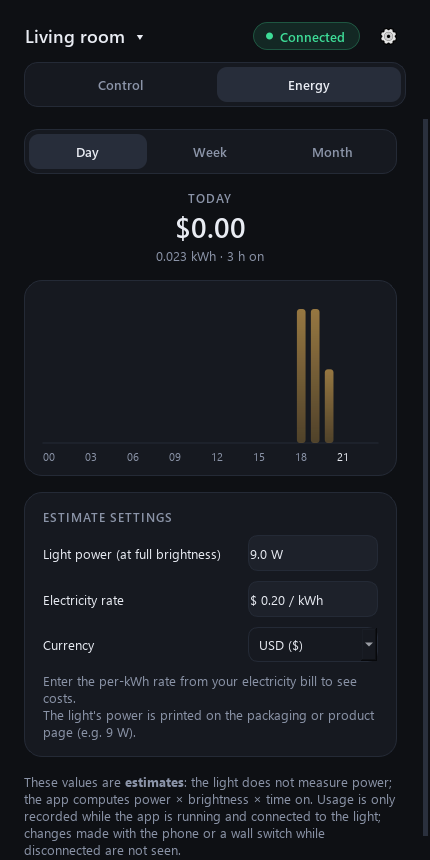
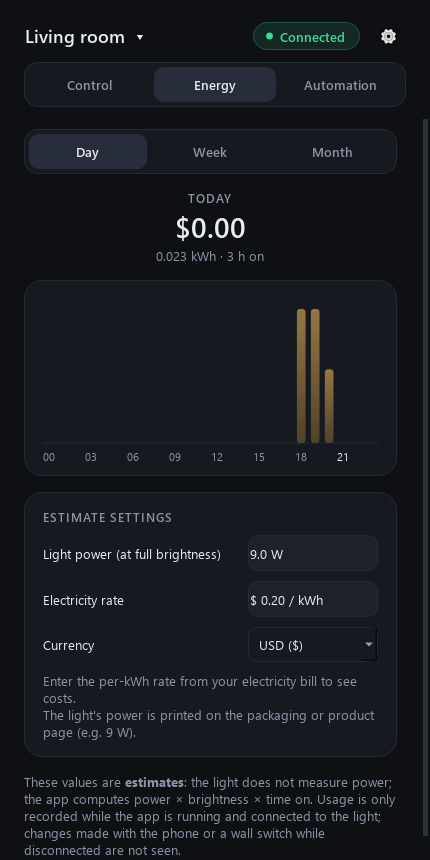
Faz 5 (v0.4.0): Belgeler ve son kontrol
- README (EN/TR): Otomasyonlar bölümü ve sınırları (yalnızca uygulama çalışırken/bilgisayar uyanıkken/ışık menzildeyken, kaçırılan kural
  toleransı, Smart Life bulut zamanlayıcılarından ayrı), özellik listesi, Durum tablosunda "gerçek cihazda henüz doğrulanmadı" satırları, yol haritası.
- docs/make_screenshots.py: otomasyon sekmesi (örnek verilerle); ekran görüntüleri yeniden üretildi.
- CLAUDE.md: yeni modüller ve durum notu. i18n testi yeni kök modülleri de tarar.
- Gizli bilgi taraması (tüm dallar, 16 commit): gerçek anahtar/kimlik/uuid/adres geçmişte yok.

Changed region(s): [[0.6349, 0.0605, 0.9372, 0.1209], [0.3628, 0.0605, 0.5442, 0.1209], [0.1512, 0.0907, 0.3326, 0.1209]]

diff --git a/docs/make_screenshots.py b/docs/make_screenshots.py
@@ -5,7 +5,7 @@ Gerçek ışık, yerel anahtar, cihaz kimliği ya da hesap bilgisi kullanılmaz;
     python docs/make_screenshots.py
 
 Çıktı: docs/screenshots/en/*.png ve docs/screenshots/tr/*.png
-(home, color, energy, wizard-keys, wizard-lights)
+(home, color, energy, automation, wizard-keys, wizard-lights)
 """
 
 from __future__ import annotations
@@ -26,11 +26,14 @@ sys.path.insert(0, str(ROOT))
 from PySide6.QtCore import QObject, QSettings, Signal  # noqa: E402
 from PySide6.QtWidgets import QApplication  # noqa: E402
 
+import automation as au  # noqa: E402
 import cloud_import as ci  # noqa: E402
 import energy as en  # noqa: E402
 import i18n  # noqa: E402
 import light_core as lc  # noqa: E402
+from ui.automation_host import AutomationHost  # noqa: E402
 from ui.main_window import MainWindow  # noqa: E402
+from ui.presets import PresetStore  # noqa: E402
 from ui.setup_dialog import PAGE_CREDENTIALS, PAGE_LIGHTS, SetupDialog  # noqa: E402
 from ui.theme import apply_theme  # noqa: E402
 
@@ -52,6 +55,53 @@ class SampleBridge(QObject):
         if name.startswith("_"):
             raise AttributeError(name)
         return lambda *args, **kwargs: None
+
+
+class SampleBackend:
+    """Otomasyon ana makinesinin beklediği arka uç; ekran görüntüsü için hiçbir ışığa dokunmaz."""
+
+    def __init__(self, lights: dict[str, str]) -> None:
+        self.lights = lights
+
+    def light_ids(self) -> list[str]:
+        return list(self.lights)
+
+    def light_name(self, light_id: str) -> str | None:
+        return self.lights.get(light_id)
+
+    async def state(self, light_id: str):
+        return None
+
+    async def apply(self, light_id: str, command) -> None:
+        return None
+
+    async def release(self, light_id: str) -> None:
+        return None
+
+
+def sample_rules(first_light: str) -> list[au.Rule]:
+    """Örnek otomasyonlar (uydurma ışık kimliği ve genel bir koordinat)."""
+    t = i18n.tr
+    return [
+        au.Rule(
+            name=t("automation.example_sunset_name"),
+            trigger=au.Trigger(kind="sun", event="sunset", offset=-30, lat=41.0, lon=29.0),
+            action=au.Action(kind="white", bright=60, temp=30, fade_min=20),
+            all_lights=True,
+        ),
+        au.Rule(
+            name=t("automation.example_morning_name"),
+            trigger=au.Trigger(kind="time", time="07:00", days=[0, 1, 2, 3, 4]),
+            action=au.Action(kind="white", bright=70, temp=40, fade_min=15),
+            lights=[first_light],
+        ),
+        au.Rule(
+            name=t("preset.night"),
+            trigger=au.Trigger(kind="time", time="23:30"),
+            action=au.Action(kind="preset", preset="night"),
+            all_lights=True,
+        ),
+    ]
 
 
 def sample_usage(log: en.EnergyLog, device: str) -> None:
@@ -91,7 +141,16 @@ def shoot(app: QApplication, lang: str, out: Path, tmp: Path) -> None:
     log = en.EnergyLog(":memory:", clock=lambda: NOW.timestamp())
     sample_usage(log, cfg.device_id)
     bridge = SampleBridge()
-    win = MainWindow(cfg, bridge, settings=settings, use_tray=False, energy_log=log)
+    second = lc.Config(device_id="sample-2", local_key="sample", uuid="sample-2", name=SAMPLE_NAMES[lang][1], category="dj")
+    host = AutomationHost(
+        au.RuleStore(), au.EngineState(), SampleBackend({cfg.device_id: cfg.name, second.device_id: second.name}), submit=lambda c: c.close()
+    )
+    for rule in sample_rules(cfg.device_id):
+        host.add_rule(rule)
+    win = MainWindow(cfg, bridge, settings=settings, use_tray=False, energy_log=log, preset_store=PresetStore(), automation_host=host)
+    win.set_devices([cfg, second], cfg.device_id)
+    win.automation_page._now = lambda: NOW.timestamp()  # "Sonraki: ..." satırı sabit kalsın
+    win.automation_page.refresh()
     win.energy._clock = lambda: NOW.timestamp()
     win.energy.set_device(cfg.device_id, cfg.watts)
     win.resize(430, 860)
@@ -111,6 +170,10 @@ def shoot(app: QApplication, lang: str, out: Path, tmp: Path) -> None:
     win.tab_energy.click()
     app.processEvents()
     win.grab().save(str(out / "energy.png"))
+
+    win.tab_automation.click()
+    app.processEvents()
+    win.grab().save(str(out / "automation.png"))
     win.close()
     log.close()
 

diff --git a/tests/test_i18n.py b/tests/test_i18n.py
@@ -55,7 +55,7 @@ def test_english_texts_have_no_turkish_letters():
 
 
 def _source_files() -> list[Path]:
-    files = [ROOT / name for name in ("light_core.py", "cloud_import.py", "devices.py", "energy.py", "light_app.py", "automation.py", "storage.py", "sun.py")]
+    files = [ROOT / name for name in ("light_core.py", "cloud_import.py", "devices.py", "energy.py", "light_app.py", "automation.py", "storage.py", "sun.py", "quick_cli.py", "shortcuts.py")]
     files += sorted((ROOT / "ui").glob("*.py"))
     return files
 

diff --git a/README.tr.md b/README.tr.md
@@ -32,9 +32,11 @@ Tuya / Smart Life ışıklarınızı Windows bilgisayarınızdan Bluetooth ile k
 
 ## Özellikler
 
-- Açma/kapama, parlaklık, beyaz ışık sıcaklığı, renk ve altı hazır ayar (Okuma, Odak, Gece, Film, Romantik, Okyanus).
+- Açma/kapama, parlaklık, beyaz ışık sıcaklığı, renk ve altı yerleşik hazır ayar (Okuma, Odak, Gece, Film, Romantik, Okyanus); ayrıca **kendi hazır ayarlarınız**: şu anki durumu kaydedin, adlandırın, düzenleyin, silin (yerleşikler gizlenebilir).
 - Birden çok ışık; başlıktaki menüden değiştirme, yeniden adlandırma, kaldırma.
-- Sistem tepsisi: pencereyi kapatınca uygulama çalışmaya devam eder; tepsiden ışığı açıp kapatabilirsiniz. Bağlantı koparsa kendiliğinden yeniden bağlanır.
+- Sistem tepsisi: pencereyi kapatınca uygulama çalışmaya devam eder; tepsiden ışığı açıp kapatabilir, hazır ayar uygulayabilir, otomasyonları duraklatabilirsiniz. Bağlantı koparsa kendiliğinden yeniden bağlanır.
+- **Otomasyonlar** (deneysel, bkz. [Otomasyonlar](#otomasyonlar)): belirli saatte, gün doğumu/batımında ya da uygulama açılırken; yumuşak geçiş; bir ya da tüm ışıklar.
+- **Hızlı erişim** (deneysel, bkz. [Hızlı erişim](#hızlı-erişim-tepsi-komut-satırı-ve-kısayollar)): komut satırı (`--scene`, `--power`) ve Windows'ta genel kısayol tuşları.
 - Pano algılama, canlı doğrulama ve "Tekrar dene" düğmeleriyle yönlendirmeli kurulum sihirbazı.
 - Çevredeki ışıkları sinyal gücüyle tarama ve ışıkları ayırt etmek için **Yanıp söndür** düğmesi (deneysel, bkz. [Durum](#durum)).
 - "Işık bulunamadı" için sorun giderici kart ve sorun bildirirken yapıştırabileceğiniz tanılama raporu.
@@ -63,6 +65,9 @@ Gerçek cihazla nelerin denendiğinin, nelerin denenmediğinin dürüst özeti:
 | Kurulum sihirbazı v2 (pano algılama, yakın tarama) | Yalnızca otomatik testler — **gerçek cihazda henüz doğrulanmadı** |
 | **Yanıp söndür** düğmesi (ışığı tanıma) | Deneysel — **gerçek cihazda henüz doğrulanmadı** |
 | **Sorun giderici** kart ve tanılama raporu | Deneysel — **gerçek cihazda henüz doğrulanmadı** (raporun gizlilik filtresi testlerle sınandı) |
+| Kendi hazır ayarlarınız (kaydet, düzenle, sil, gizle) | Yalnızca otomatik testler — **gerçek cihazda henüz doğrulanmadı** |
+| **Otomasyonlar** (saat / gün doğumu-batımı / uygulama açılışı tetikleyicileri, yumuşak geçiş, birden çok ışık, kaçırılan kural toleransı) | Yalnızca otomatik testler — **gerçek cihazda henüz doğrulanmadı** |
+| Tepsi hazır ayarları, komut satırı (`--scene`, `--power`) ve genel kısayol tuşları | Otomatik testler (gerçek bir Windows `RegisterHotKey` çağrısı ve iki süreçli komut satırı denemesi dahil) — **gerçek cihazda henüz doğrulanmadı** |
 | Windows yükleyicisi ve taşınabilir zip | Derleme betikleri ve release iş akışı yazıldı; **geliştirici tarafından henüz derlenip denenmedi** |
 | İngilizce arayüz | Otomatik testler ve üretilen ekran görüntüleri; İngilizce Windows'ta henüz gözden geçirilmedi |
 | Windows 10/11 | Birincil hedef; arayüz gerçek Windows kurulumlarında henüz geniş denenmedi |
@@ -88,6 +93,30 @@ Işıklar güç ölçmez. Uygulama şunu tahmin eder: *anma gücü (W) × parlak
 - Işığın anma gücünü (ambalajında yazar, ör. 9 W) ve faturanızdaki elektrik birim fiyatını girin.
 - Türkçe arayüz: varsayılan fiyat EPDK mesken tarifesidir (Nisan 2026) ve para birimi liradır; kendi faturanıza bakın, tarifeler değişir. İngilizce arayüz: fiyat **boş** başlar ve para birimini siz seçersiniz (varsayılan sistem bölgenize uyar).
 - Kayıtlar yerel olarak, anahtarlarınızın yanındaki `energy.db` dosyasında tutulur.
+
+## Otomasyonlar
+
+<p align="center">
+  <img src="docs/screenshots/tr/automation.png" width="260" alt="Üç örnek kuralın göründüğü Otomasyon sekmesi">
+</p>
+
+> **Gerçek cihazda henüz doğrulanmadı.** Motor ve sekme otomatik testlerle sınandı (saat hesapları, bilinen konumlarda gün doğumu/batımı, yaz saati geçişleri, tekrar önleme, yeniden deneme, yumuşak geçiş); geliştirici henüz bir kuralın gerçek ışığı zamanında açıp kapattığını izlemedi. İlk günleri deneme olarak görün.
+
+**Otomasyon** sekmesini açıp kural ekleyin. Kural: *ne zaman* → *ne yapılsın* → *hangi ışıklar*:
+
+- **Ne zaman:** seçtiğiniz haftanın günlerinde belirli bir saatte; gün doğumu ya da gün batımında (isterseniz birkaç dakika önce/sonra; konumunuzu enlem ve boylam olarak girersiniz, hesap internetsiz, saf Python ile yapılır); ya da uygulama her açıldığında.
+- **Ne yapılsın:** aç, kapat, parlaklık ayarla (kapalı ışığı açmaz), beyaz ışık (parlaklık + sıcaklık), renk ya da hazır ayarlarınızdan birini uygula. İsteğe bağlı olarak 1-120 dakikaya yayılan **yumuşak geçiş**: parlaklık (beyazda sıcaklık da) şu anki değerden hedefe, normal komut yolundan adım adım değişir. Geçiş sırasında ışığa elle dokunursanız geçiş durur.
+- **Hangi ışıklar:** hepsi ya da seçtikleriniz. Seçili ışık normal bağlantıdan, diğerleri kısa süreli geçici bir bağlantıdan yönetilir; pencere o ışığa geçmez. Enerji tahmini yalnızca seçili ışık için kaydedilir.
+- **Şimdi çalıştır** kuralı hemen dener; anahtar kuralı silmeden kapatır; **Otomasyonları duraklat** (sekme ya da tepsi menüsü) hepsini durdurur.
+
+**Sınırlar, açıkça:**
+
+- Otomasyonlar **yalnızca uygulama çalışırken, bilgisayar uyanıkken ve ışık Bluetooth menzilindeyken** çalışır. Uygulama kapalıyken ya da bilgisayar uykudayken zamanı gelen kural çalışmaz.
+- **Kaçırılan kurallar:** uygulama, kuralın saatinden sonra bir tolerans süresi içinde (varsayılan 10 dakika, sekmeden ayarlanır) uyanır ya da açılırsa kural bir kez çalışır; sonrası atlanır. Saatinin hemen ardından oluşturduğunuz ya da açtığınız kural geçmişe dönük çalıştırılmaz. Sistem saatini değiştirmek güvenlidir: aynı kural aynı gün ve dakikada iki kez çalışmaz.
+- Ulaşılamayan ışık 3 kez denenir (10 sn ve 30 sn sonra), olmazsa tepsiden bildirim gelir. Başarısız olan kural açık kalır ve bir sonraki sefer yine çalışır.
+- **Smart Life'ın bulut zamanlayıcıları ve sahneleri bunlardan ayrıdır**, kurallarla eşitlenmez. Kurallar yalnızca bu uygulamadadır.
+- Bluetooth'ta ışıkla aynı anda tek program konuşabilir: telefondaki Smart Life bağlıysa ışığa ulaşılamaz.
+- Kurallar ışıklarınızın yanında `automations.json` dosyasında saklanır (dosyada ışıklarınızın cihaz kimlikleri bulunur, anahtarları asla; herkese açık yere yapıştırmayın). Bozuk dosyanın yedeği alınır (`automations.json.bad-<tarih>`) ve uygulama boş listeyle açılır.
 
 ## Hızlı erişim: tepsi, komut satırı ve kısayollar
 
@@ -149,7 +178,8 @@ Uygulama ışığı bulamadığında bir **sorun giderici kart** gösterir. Çö
 - Geliştirici hesabı gerektirmeyen Smart Life QR girişi (kendi Tuya istemci kimliğimiz gerekir)
 - Kod imzalı yükleyici (SmartScreen uyarısını kaldırır)
 - Gerçekten güç ölçen akıllı prizler için enerji sekmesi
-- Daha fazla ışık türü, sahne ve zamanlayıcı; daha fazla çeviri
+- Daha fazla ışık türü; daha fazla çeviri
+- Uygulama kapalıyken de çalışan otomasyonlar (arka plan hizmeti)
 
 ## Katkıda bulunma
 
@@ -192,6 +222,6 @@ python -m pytest tests            # ışık gerekmez; Qt "offscreen" modunda ça
 python docs/make_screenshots.py   # docs/screenshots/en ve /tr klasörlerini örnek verilerle yeniden üretir
 ```
 
-Yapı: `light_core.py` (BLE oturumu, komut kodlama), `devices.py` (ışık deposu, veri klasörü geçişi), `cloud_import.py` (Tuya Cloud'dan içe aktarma), `energy.py` (tahminler), `diagnostics.py` ve `privacy.py` (rapor ve maskeleme), `i18n.py` ve `locales/` (metinler), `ui/` (PySide6 arayüzü), `light_app.py` (giriş noktası), `installer/` (Inno Setup betiği ve derleme betikleri).
+Yapı: `light_core.py` (BLE oturumu, komut kodlama), `devices.py` (ışık deposu, veri klasörü taşıma), `storage.py` (yedekli ortak JSON okuma/yazma), `cloud_import.py` (Tuya Cloud içe aktarma), `energy.py` (tahminler), `automation.py` ve `sun.py` (otomasyon motoru, gün doğumu/batımı), `shortcuts.py` ve `quick_cli.py` (kısayol ve komut satırı çözümleme), `diagnostics.py` ve `privacy.py` (rapor ve maskeleme), `i18n.py` ve `locales/` (metinler), `ui/` (PySide6 arayüzü; otomasyon sekmesi, yerel komut kanalı `ipc.py` ve `hotkeys.py` dahil), `light_app.py` (giriş noktası), `installer/` (Inno Setup betiği ve derleme betikleri).
 
 Komut satırı araçları (`app.py`, `get_credentials.py`) geliştirici araçlarıdır ve hâlâ **yalnızca Türkçedir**. `python app.py scan` çevredeki Tuya BLE cihazlarını listeler; `python app.py -h` tüm komutları gösterir.

diff --git a/CLAUDE.md b/CLAUDE.md
@@ -9,11 +9,13 @@ Tuya/Smart Life ışıklarını Bluetooth LE ile kontrol eden Windows odaklı ma
   - cloud_import.py: Tuya Cloud'dan içe aktarma; get_credentials.py: aynısının komut satırı hâli
   - energy.py: tahmini tüketim (SQLite energy.db)
   - automation.py: otomasyon motoru (kurallar, zamanlayıcı, yumuşak geçiş); sun.py: gün doğumu/batımı hesabı
+  - quick_cli.py: --scene/--power argüman çözümleme; shortcuts.py: genel kısayol kombinasyonu çözümleme
   - diagnostics.py: tanılama raporu ve günlük/rapor maskeleme (gizli bilgi süzgeci burada)
 - ui/: PySide6 arayüzü
   - main_window, setup_dialog, controller, energy_page, widgets, theme, tray, trouble, workers
   - presets, presets_view, scene_editor: hazır ayarlar ve parlaklık/renk düzenleyici
   - automation_page, rule_dialog, automation_text, automation_host: otomasyon sekmesi ve motoru uygulamaya bağlayan katman
+  - ipc.py (komut satırı için yerel kanal), hotkeys.py (Windows genel kısayolları, RegisterHotKey), tray.py (hazır ayar alt menüsü, otomasyonu duraklat)
   - bridge.py: BLE asyncio iş parçacığı ↔ Qt köprüsü ("son değer kazanır" komut birleştirme)
 - i18n.py + locales/tr.py, locales/en.py: tüm kullanıcı metinleri buradan; koda Türkçe/İngilizce metin gömme
 - light_app.py: giriş noktası; app.py: komut satırı (Türkçe kalır); version.py: sürüm ve veri klasörü adları
@@ -37,4 +39,5 @@ Tuya/Smart Life ışıklarını Bluetooth LE ile kontrol eden Windows odaklı ma
 - Enerji değerleri tahmindir (watt × parlaklık × süre); yalnızca uygulama açık ve bağlıyken kaydedilir.
 - Wi-Fi/LAN kontrolü ve Smart Life QR girişi yok (Tuya istemci kimliği gerekir).
 - Gerçek cihazda doğrulanmayan özellikler README Durum tablosunda "doğrulanmadı" diye işaretli kalır.
-- Dal v0.4.0 üzerinde çalışılıyor: Faz 1 kendi hazır ayarlar, Faz 2 otomasyon motoru, ardından otomasyon arayüzü (ui/automation_*, rule_dialog).
+- Dal v0.4.0 üzerinde çalışılıyor: kendi hazır ayarlar, otomasyon motoru ve sekmesi, hızlı erişim (tepsi, --scene/--power, kısayollar). Hepsi gerçek cihazda henüz doğrulanmadı (README Durum tablosunda işaretli).
+- Otomasyonlar yalnızca uygulama çalışırken, bilgisayar uyanıkken ve ışık menzildeyken çalışır; Smart Life bulut zamanlayıcılarından ayrıdır.
